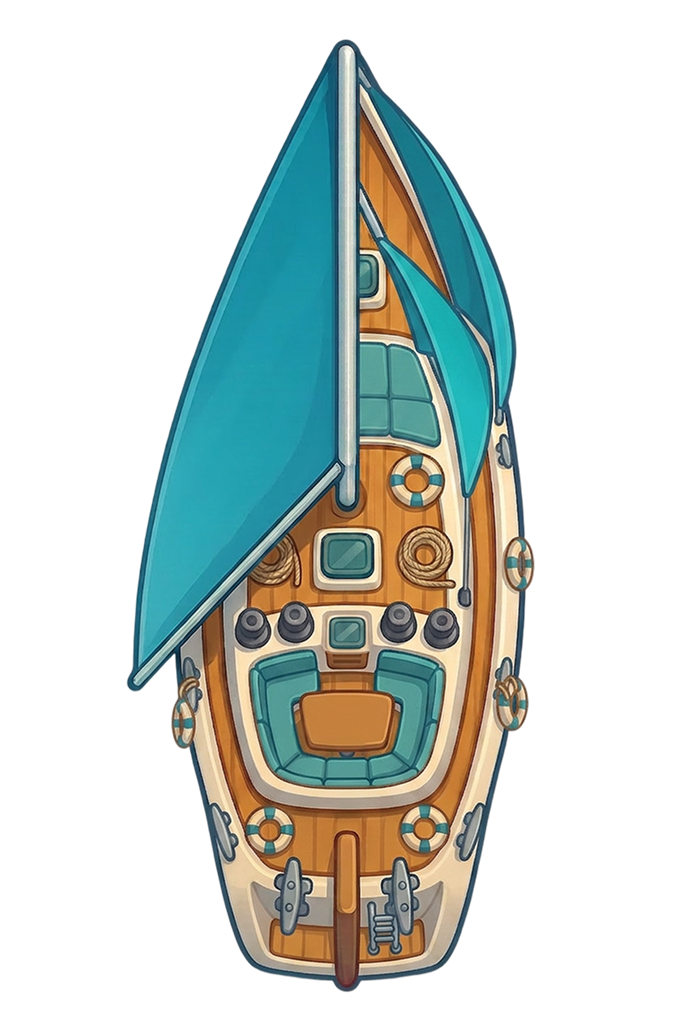
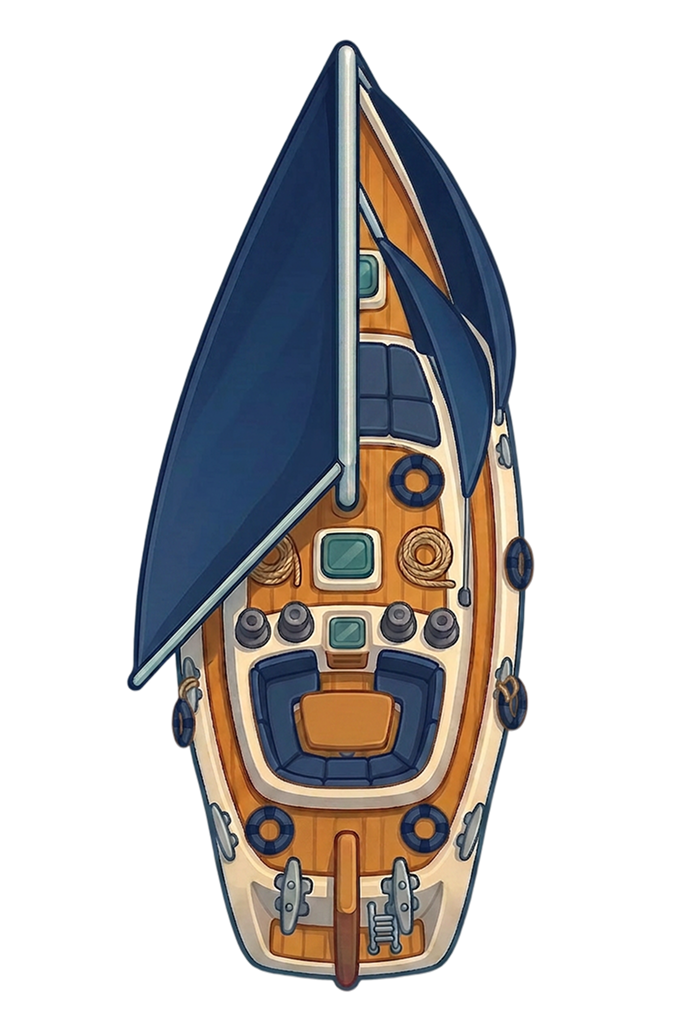
Gameplay changes

diff --git a/src/scenes/GameScene.ts b/src/scenes/GameScene.ts
@@ -2957,6 +2957,21 @@ export default class GameScene extends Phaser.Scene {
   }
 
   private isCoinPlacementSafe(spawnMeter: number, xRatio: number) {
+    const energyRules = SEGMENT_PICKUP_RULES.energy;
+    for (const scheduled of this.scheduledObjects) {
+      if (scheduled.type !== "energy") {
+        continue;
+      }
+      const deltaMeters = Math.abs(scheduled.spawnMeter - spawnMeter);
+      if (deltaMeters >= energyRules.minGapMeters) {
+        continue;
+      }
+      const existingXRatio = Phaser.Math.Clamp(scheduled.xRatio ?? 0.5, 0, 1);
+      if (Math.abs(existingXRatio - xRatio) < energyRules.minDeltaXRatio) {
+        return false;
+      }
+    }
+
     if (!SEGMENT_COIN_SAFETY.enabled) {
       return true;
     }
@@ -3121,19 +3136,6 @@ export default class GameScene extends Phaser.Scene {
       spawned += 1;
     }
 
-    while (spawned < missing) {
-      const spawnMeter = Phaser.Math.FloatBetween(coinRules.spawnRangeStartMeters, coinRules.spawnRangeEndMeters);
-      const xRatio = Phaser.Math.FloatBetween(coinRules.xRatioMin, coinRules.xRatioMax);
-      this.scheduledObjects.push({
-        type: "energy",
-        meterOffset: 0,
-        xRatio,
-        scheduleId: `energy-final-fallback-${spawned}@${spawnMeter.toFixed(2)}@${this.scheduledObjects.length}`,
-        spawnMeter,
-      });
-      this.coinsScheduledTotal += 1;
-      spawned += 1;
-    }
   }
 
   private scheduleGlobalBonuses() {
@@ -4554,6 +4556,8 @@ export default class GameScene extends Phaser.Scene {
 
   private updateActiveObjectSpeeds(deltaSec: number) {
     const baseFallSpeed = this.getBaseFallSpeedByKmh(this.speedKmh);
+    const yachtBody = this.yachtBody?.body as Phaser.Physics.Arcade.Body | undefined;
+    const yachtAnchorY = yachtBody ? yachtBody.center.y : this.yachtBody?.y;
 
     this.hazards.children.each((child) => {
       const sprite = child as Phaser.Physics.Arcade.Sprite;
@@ -4561,6 +4565,7 @@ export default class GameScene extends Phaser.Scene {
         return;
       }
 
+      const hazardType = (sprite.getData("hazardType") as HazardType | undefined) ?? "moneyDown";
       const speedMultiplier = (sprite.getData("speedMultiplier") as number | undefined) ?? 1;
       const minSpeed = baseFallSpeed * speedMultiplier * HAZARD_COLLISION.minFallSpeedFactor;
       let pushVy = (sprite.getData("pushVy") as number | undefined) ?? 0;
@@ -4571,7 +4576,23 @@ export default class GameScene extends Phaser.Scene {
       }
       sprite.setData("pushVy", pushVy);
 
-      const targetVy = Math.max(minSpeed, baseFallSpeed * speedMultiplier + pushVy);
+      const baseVy = baseFallSpeed * speedMultiplier + pushVy;
+      let targetVy = Math.max(minSpeed, baseVy);
+      if (
+        hazardType === "moneyDownMagnet" &&
+        RED_MAGNET_BUOY_CONFIG.behindPullEnabled &&
+        yachtAnchorY !== undefined
+      ) {
+        const spriteBody = sprite.body as Phaser.Physics.Arcade.Body | undefined;
+        const hazardCenterY = spriteBody ? spriteBody.center.y : sprite.y;
+        if (hazardCenterY > yachtAnchorY) {
+          targetVy = Phaser.Math.Clamp(
+            baseVy,
+            -Math.max(0, RED_MAGNET_BUOY_CONFIG.behindPullMaxReverseSpeedPxPerSec),
+            Number.POSITIVE_INFINITY,
+          );
+        }
+      }
       sprite.setVelocityY(targetVy);
     });
 
@@ -5589,7 +5610,11 @@ export default class GameScene extends Phaser.Scene {
         Math.max(0, 1 - normalizedDistance),
         Math.max(0.05, RED_MAGNET_BUOY_CONFIG.attractFalloffPower),
       );
-      const impulse = RED_MAGNET_BUOY_CONFIG.attractForcePxPerSec * falloff * deltaSec;
+      const behindPullMultiplier =
+        RED_MAGNET_BUOY_CONFIG.behindPullEnabled && dy > 0
+          ? RED_MAGNET_BUOY_CONFIG.behindPullImpulseMultiplier
+          : 1;
+      const impulse = RED_MAGNET_BUOY_CONFIG.attractForcePxPerSec * behindPullMultiplier * falloff * deltaSec;
       if (impulse <= 0) {
         return;
       }

diff --git a/src/config/tuning.ts b/src/config/tuning.ts
@@ -593,6 +593,9 @@ export const RED_MAGNET_BUOY_CONFIG = {
   minDistancePx: 12,
   axisFactorX: 1,
   axisFactorY: 1,
+  behindPullEnabled: true,
+  behindPullImpulseMultiplier: 1,
+  behindPullMaxReverseSpeedPxPerSec: 220,
   updateCooldownMs: 0,
 } as const;
 
@@ -666,7 +669,7 @@ export const SKILL_WHEEL_REWARD_CONFIG = {
     },
     time_mult: {
       key: "skill-wheel-bonus-3",
-      resultKey: "skill-wheel-sector-2",
+      resultKey: "time-bonus",
       durationMs: 0,
       multiplier: 2,
       title: "x2",
@@ -996,7 +999,8 @@ export const SEGMENT_PICKUP_RULES = {
     spawnRangeEndMeters: 1250,
     xRatioMin: 0.22,
     xRatioMax: 0.78,
-    minGapMeters: 8,
+    minGapMeters: 14,
+    minDeltaXRatio: 0.10,
     maxPlacementAttempts: 300,
   },
   speedBonus: {
@@ -1320,7 +1324,7 @@ export const SHIP_STAGE_TRANSITION = {
   scale: {
     enabled: true,
     from: 1,
-    to: 1.08,
+    to: 2,
   },
 } as const;
 
